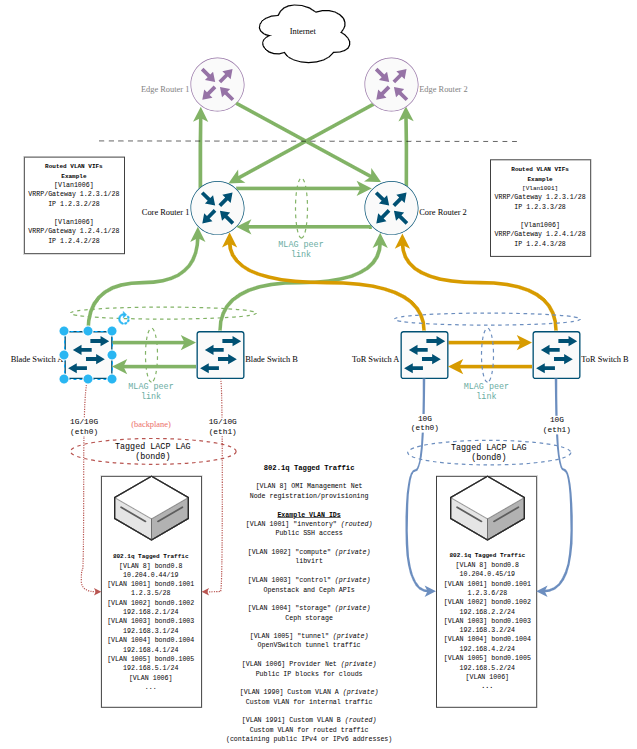
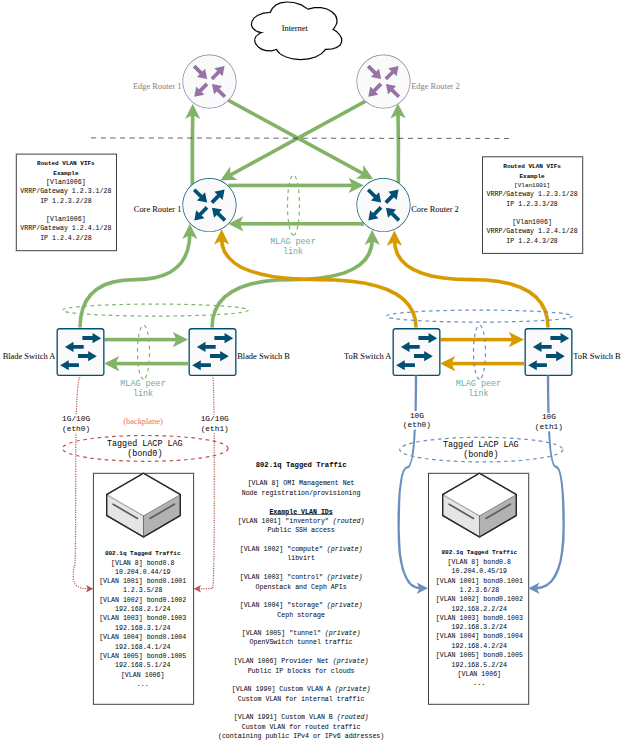
more diagram changes

Changed region(s): [[0.0, 0.0617, 1.0, 1.0], [0.76, 0.185, 0.9424, 0.3391], [0.3952, 0.0, 0.5472, 0.0925]]

diff --git a/docs/baremetal/tutorials/baremetal-networking.md b/docs/baremetal/tutorials/baremetal-networking.md
@@ -39,8 +39,8 @@ For example, in a `/28` block (`1.2.3.0/28`):
 You can view your cluster’s assigned VLANs and IP prefixes in  
 **Central → Assets → Networking**.
 
-Here's a how-to on Creating VLANs and IP prefixes in your Central Dashboard
--[VLANs and IP Prefixes Howto](https://openmetal.io/docs/manuals/openmetal-central/adding-ip-addresses)
+How-to guide on creating VLANs and IP prefixes in your Central Dashboard
+-[OpenMetal VLAN Guide](https://openmetal.io/docs/manuals/openmetal-central/adding-ip-addresses)
 
 ### Physical Network Layout
 
@@ -52,7 +52,7 @@ upwards to the core, and between themselves.
 Small, Standard, and GPU servers are blade-type servers. All other server types
 connect via the ToR switches.
 
-- [Network Diagram](tutorials/images/network_config.png "Network Diagram")
+![Network Diagram](./images/network_config.png)
 
 ### Notes and Reminders
 
